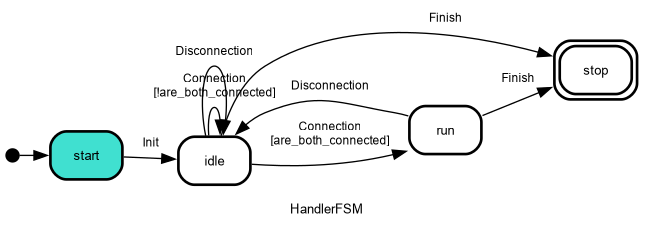
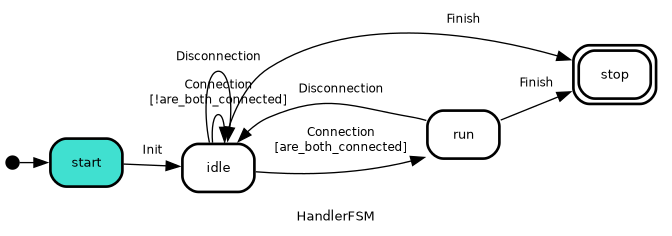
feat: improve connection handling and logging in HandlerFSM

diff --git a/src/handler/handler_fsm.py b/src/handler/handler_fsm.py
@@ -59,6 +59,7 @@ class HandlerFSM(Thread, StateMachine):
         )
 
     def __notify_connection_change(self) -> None:
+        logger.info(f"{self.name} {self.current_state} - Connection state changed, notifying FSM")
         with self.__connection_condition:
             self.__connection_condition.notify_all()
 
@@ -81,7 +82,7 @@ class HandlerFSM(Thread, StateMachine):
         If both connections are established, it transitions to the running state. If only one connection is established, it remains in the idle state and continues to check for both connections.
         If neither connection is established, it remains in the idle state and continues to check for both connections.
         """
-        logger.info(f"{self.name} {self.current_state} -  on_connection event triggered")
+        logger.info(f"{self.name} {self.current_state} - on_connection event triggered")
     
     def on_disconnection(self):
         """
@@ -139,12 +140,11 @@ class HandlerFSM(Thread, StateMachine):
         If both connections are established, it transitions to the running state. If only one connection is established, it remains in the idle state and continues to check for both connections.
         If neither connection is established, it remains in the idle state and continues to check for both connections.
         """
-        self.handler.start_connections()
         while not self.are_both_connected():
-            logger.info(f"{self.name} {self.current_state} - W")
-            sleep(1)
             self.handler.start_connections()
-            logger.info(f"{self.name} {self.current_state} - Waiting for both connections to be established")
+            with self.__connection_condition:
+                self.__connection_condition.wait(timeout=1.0)
+        logger.info(f"{self.name} {self.current_state} - Both connections established, transitioning to running state")
         self.send('connection')
 
     def do_run(self):
@@ -152,9 +152,10 @@ class HandlerFSM(Thread, StateMachine):
         Method to handle the running state. It performs the main operation of the handler, which involves processing incoming data and logging it to InfluxDB.
         If either connection is lost while in the running state, it triggers the disconnection event to transition back to the idle state and continues to check for both connections.
         """
-        with self.__connection_condition:
-            while self.are_both_connected():
+        while self.are_both_connected():
+            with self.__connection_condition:
                 self.__connection_condition.wait()
+        logger.info(f"{self.name} {self.current_state} - Connection lost, transitioning to idle state")
         self.send('disconnection')
 
     def do_stop(self):
@@ -182,4 +183,5 @@ class HandlerFSM(Thread, StateMachine):
         logger.info(f"{self.name} {self.current_state} - Thread started")
         while self.current_state != self.final:
             self.do_state()
+        self.do_stop()
         logger.info(f"{self.name} {self.current_state} - Thread finished")

diff --git a/src/connections/connection_handler.py b/src/connections/connection_handler.py
@@ -59,8 +59,10 @@ class ConnectionHandler:
         if not self.influx_connection and not self.mqtt_connection:
             logger.error("No connections to start. Please provide a valid configuration.")
             return
-        self.influx_connection.connect()
-        self.mqtt_connection.connect()
+        if not self.influx_connection.is_connected():
+            self.influx_connection.connect()
+        if not self.mqtt_connection.is_connected():
+            self.mqtt_connection.connect()
         self.__notify_state_change()
 
     def stop_connections(self) -> None:

diff --git a/src/main.py b/src/main.py
@@ -1,5 +1,4 @@
 import sys
-from xml.sax import handler
 
 from src.handler.handler_fsm import HandlerFSM
 from src.utils.configuration import Configuration
